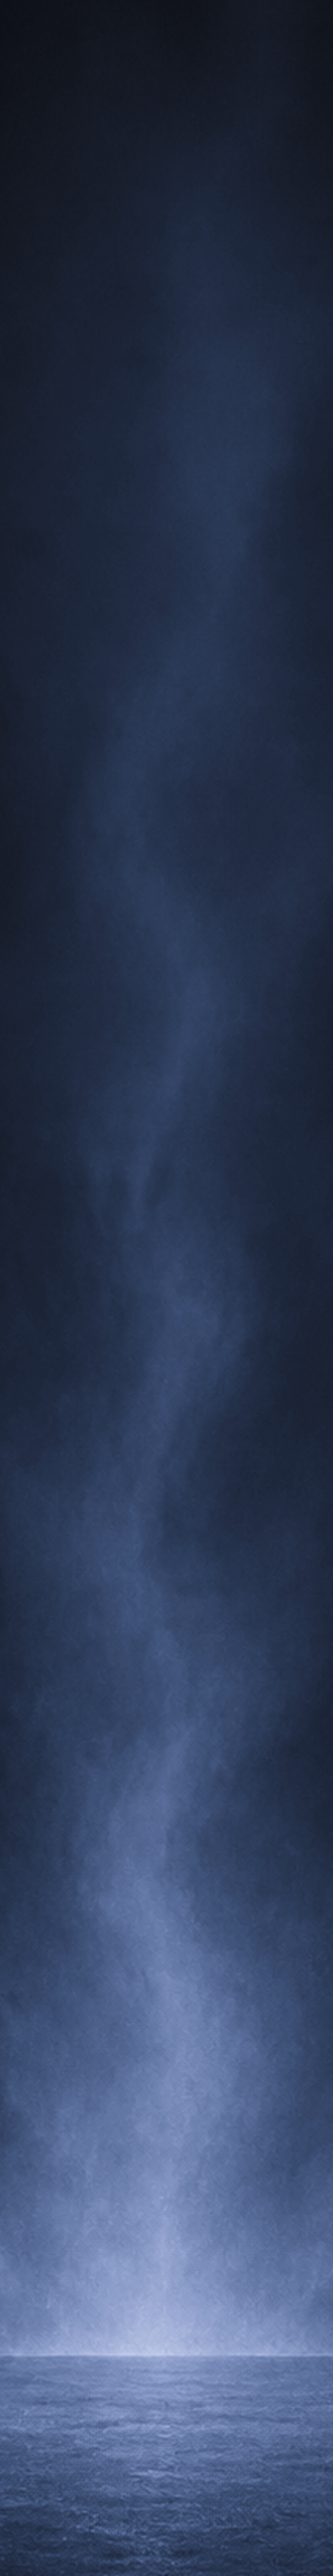
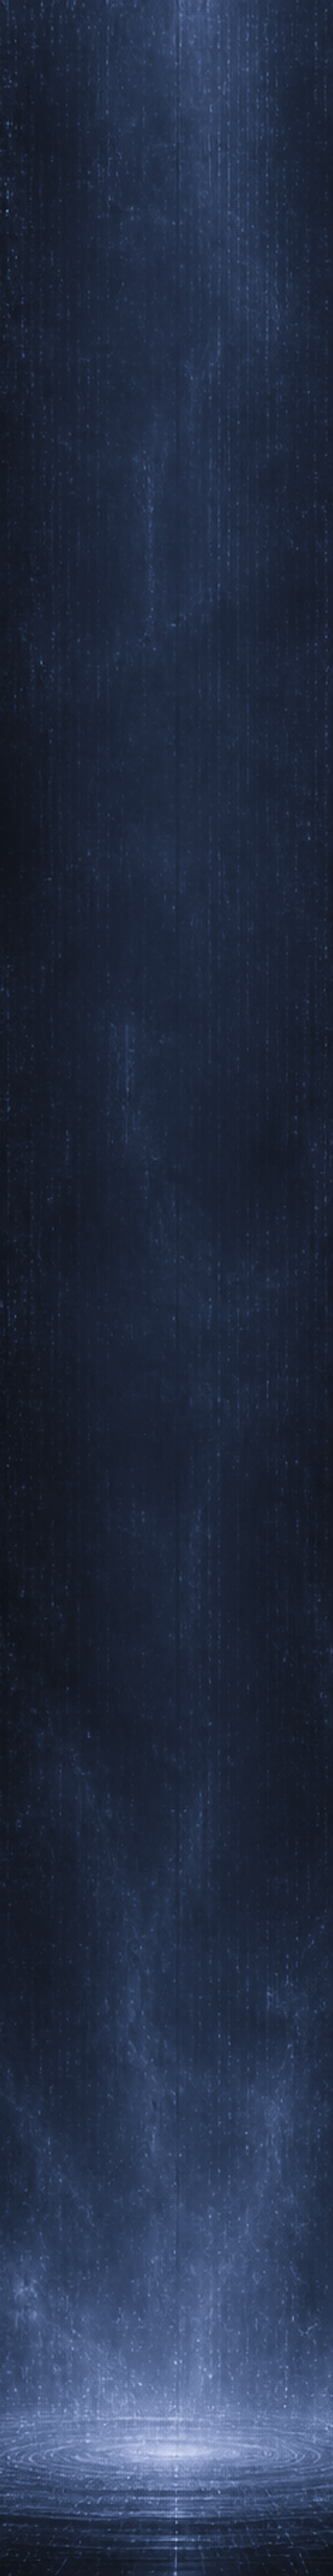
feat: refine dimensional gate background master

diff --git a/PROJECT-STATUS.md b/PROJECT-STATUS.md
@@ -1404,3 +1404,9 @@ PR: https://github.com/overvivi/vivigames/pull/1
 - 無彩色マスターを上側から切り出し直し、床の明るい境界をキャラの足元直前まで下げた。非選択でキャラを薄くしても、背景の床線が膝や胴を横切らない
 - キャラ透明アートは従来どおり透明窓内寸のまま維持。背景の全面敷きと役割を混同しない
 - 型チェック・Remaster公開用ビルド成功。公開はユーザーの明示`push`待ち
+
+### 2026-08-29 — Codex（Remaster：ゲート内背景マスターの描き直し）
+
+- 外寸だけを合わせても、従来マスターは上部が黒く空き、床の境界も人物の脚へ近すぎて見た目上の問題を解決できていなかった。背景マスターを描き直し、上端から細いデータノイズが続き、床・オーラは最下部だけにある構図へ変更
+- 新マスターを同一構図の7色へ展開。旧v1マスターは参照を外して削除した
+- Remaster公開用ビルド、ルート`npm run verify`成功。公開はユーザーの明示`push`待ち
